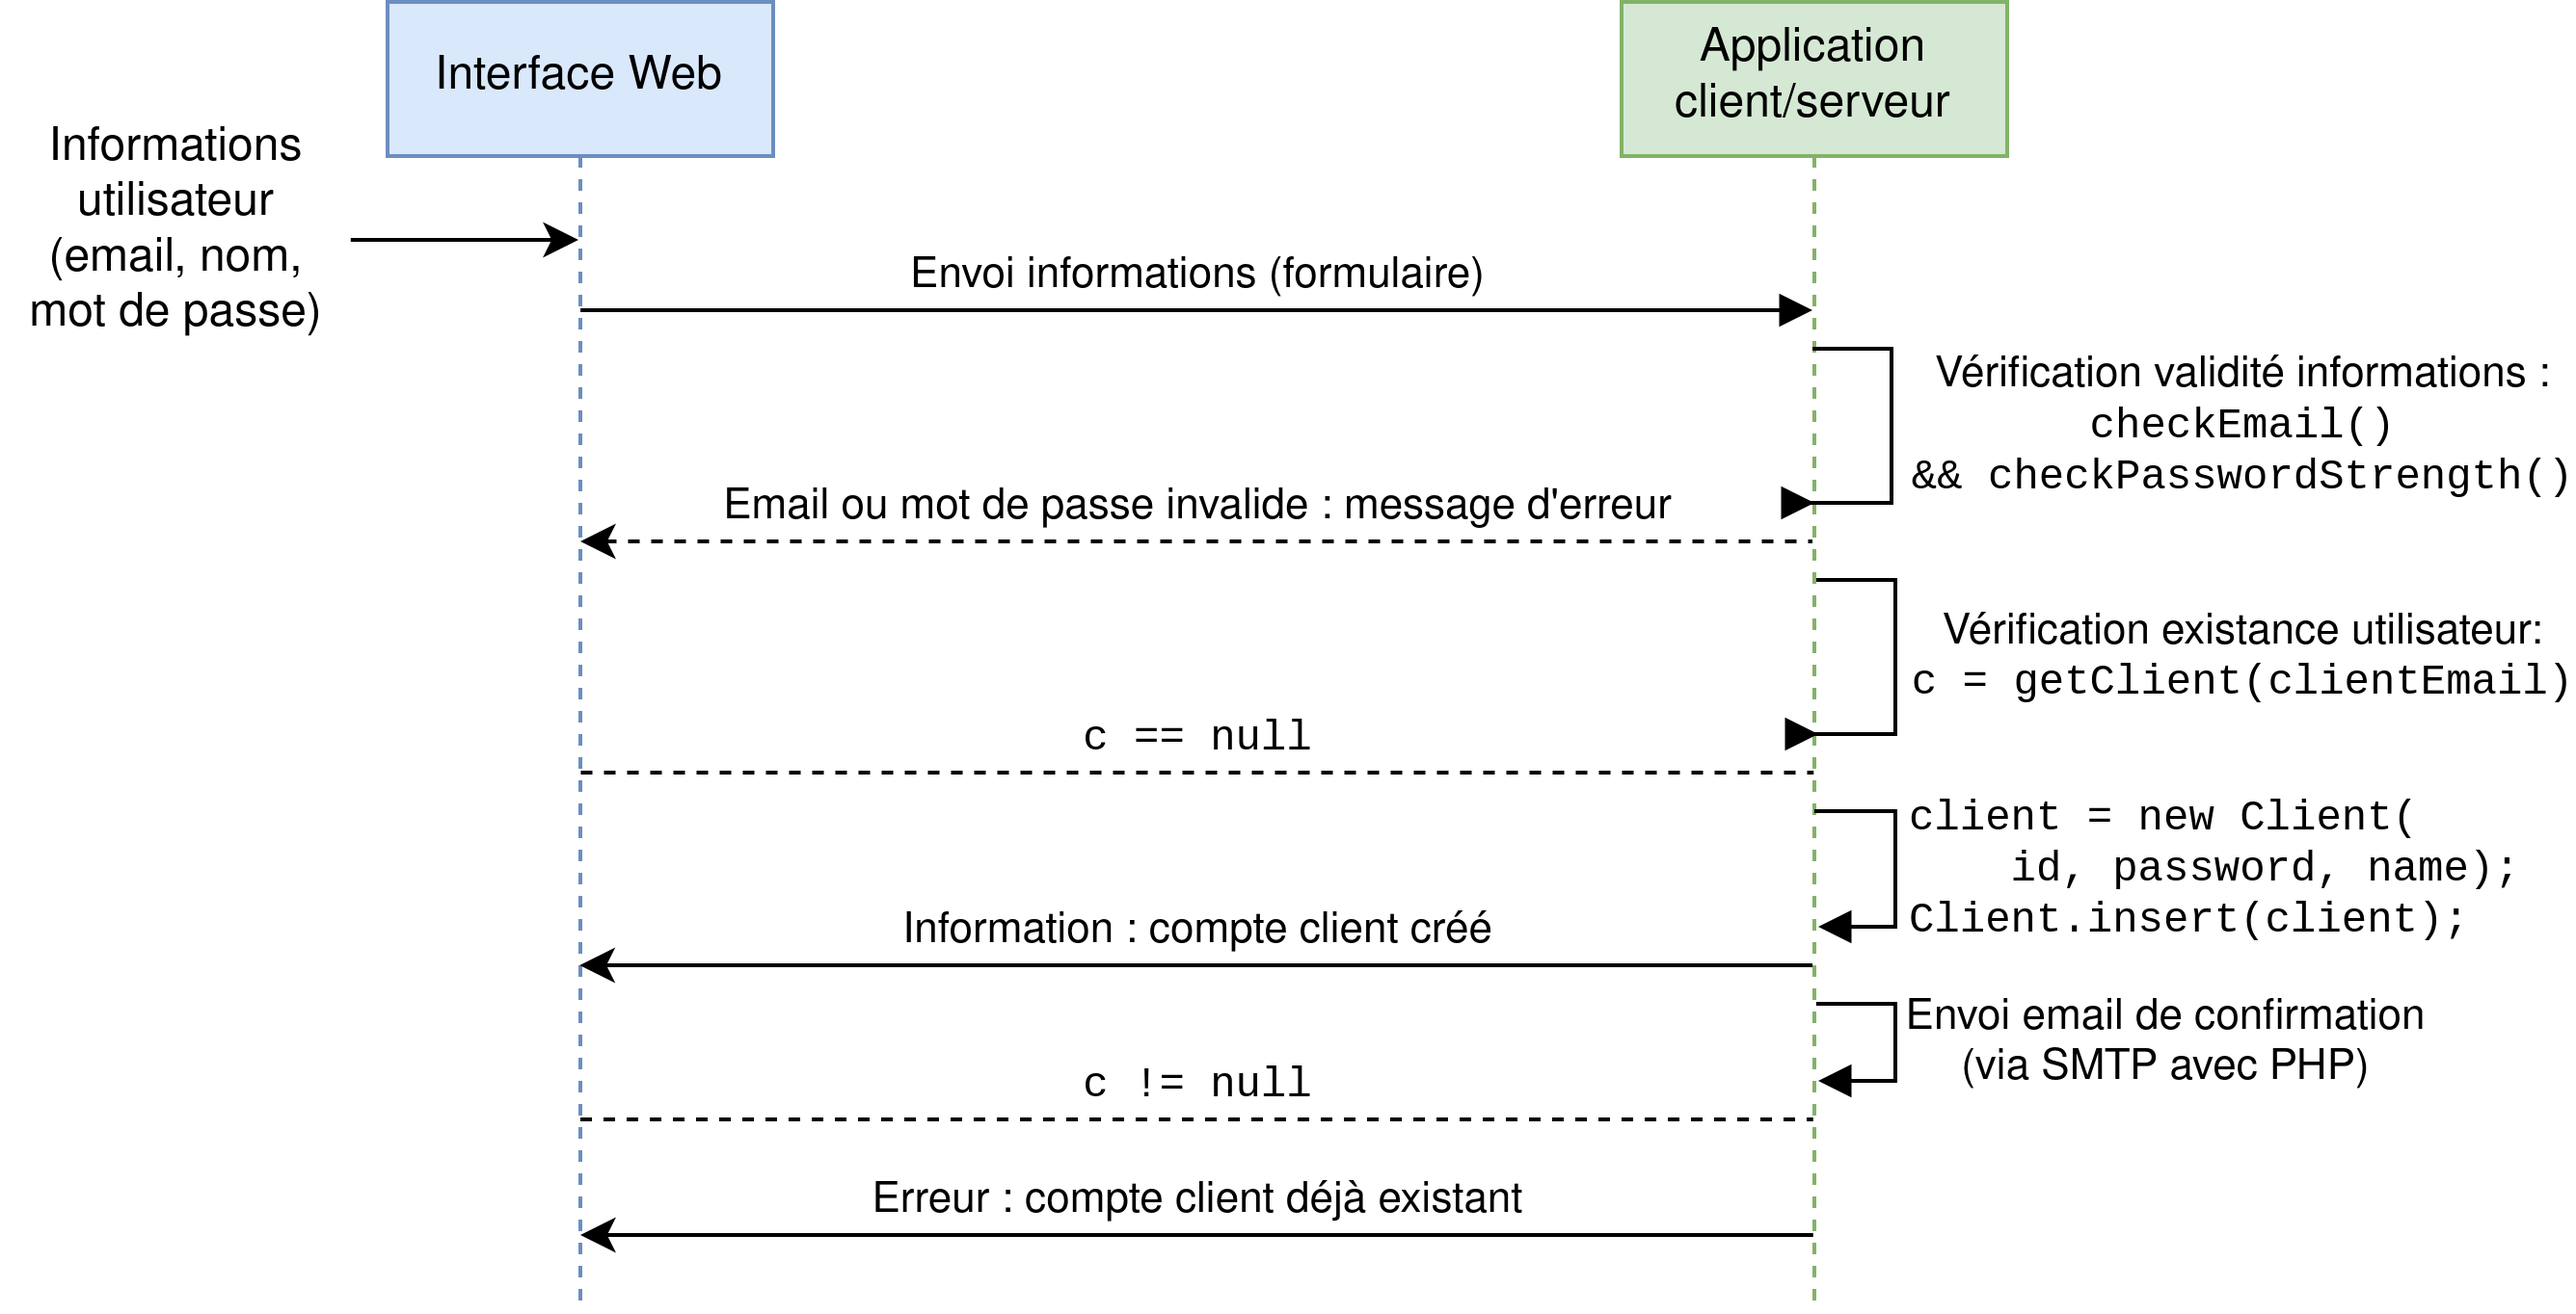
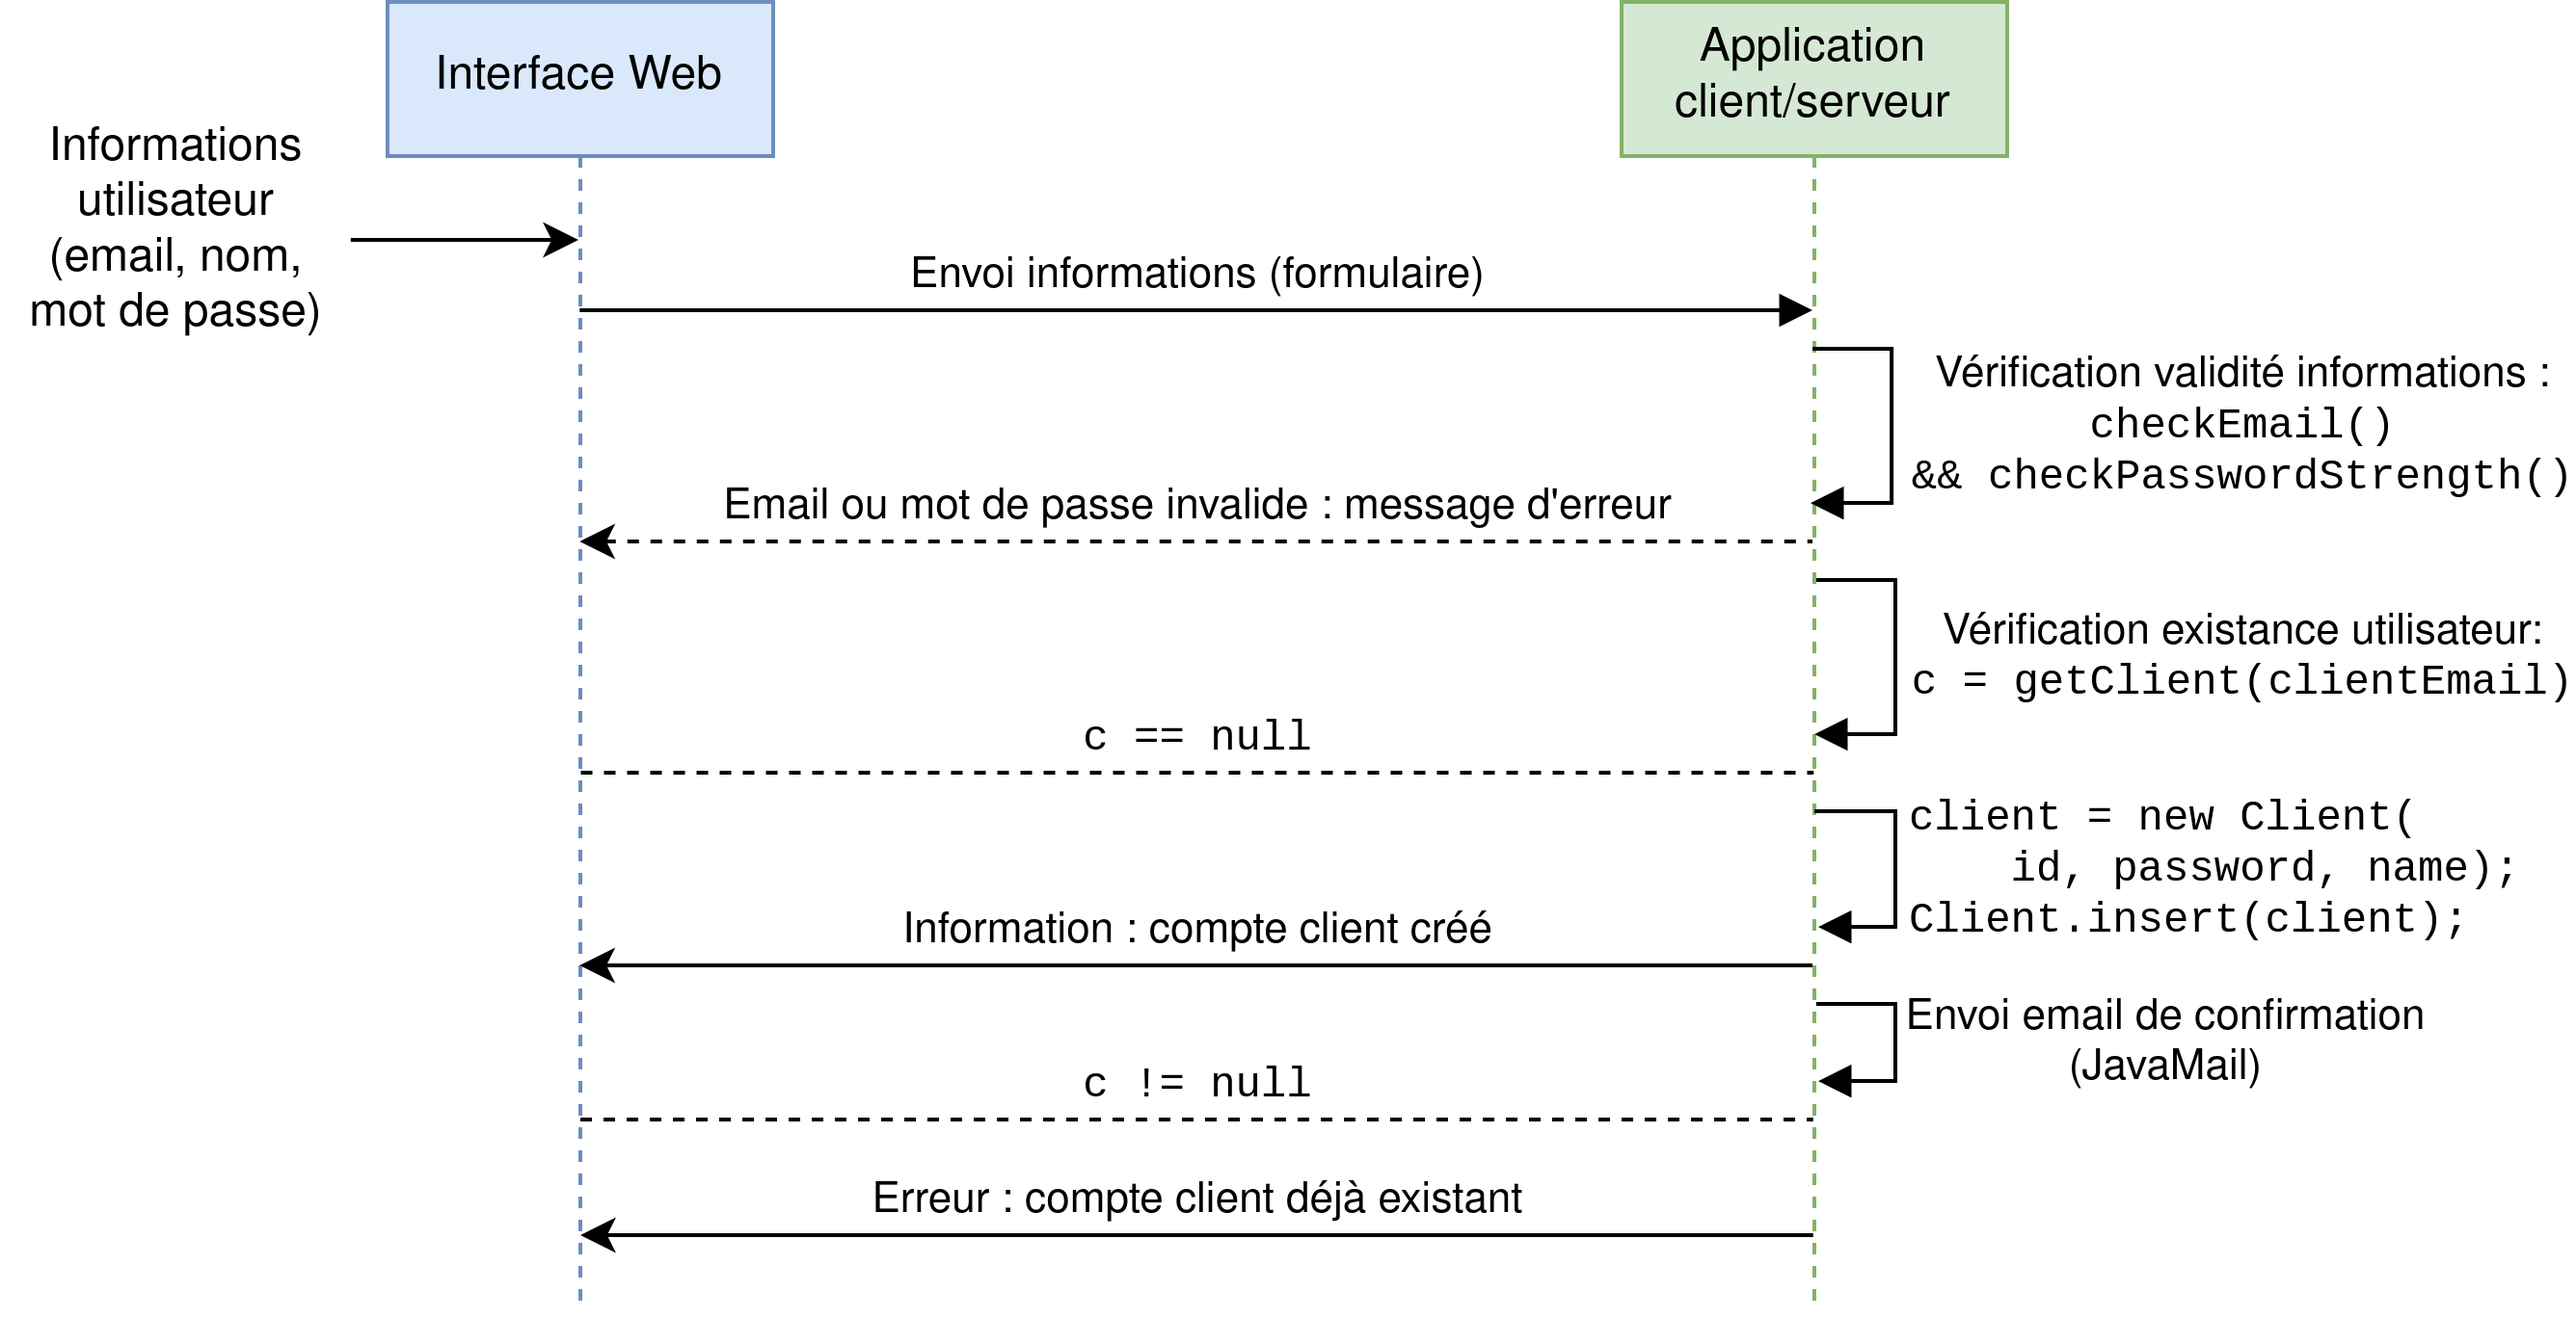
Fin de la DAT (j'espère)

diff --git a/DAT/main/main.tex b/DAT/main/main.tex
@@ -32,17 +32,17 @@ Documents de spécification :
 	\end{itemize}
 \end{itemize}
 
-%\chapter{Terminologie}
-
 \chapter{Configuration requise}
 
 Les éléments matériels nécessaire au développement de cet outil sont :
 \begin{itemize}
-    \item Un serveur sur lequel nous devrons installer tout le necéssaire à la mise en place d'un serveur Web (Apache, PHP, MySQL).
+    \item Un serveur sur lequel nous devrons installer le necéssaire à la mise en place d'un
+        serveur Web (Apache, Tomcat, PHP, MySQL).
     \item Un ordinateur sous Windows pour développer les interfaces et effectuer les tests.
 \end{itemize}
 
-De plus nous aurons besoin de différents logiciels pour effectuer des tests (protéger les logiciels) lorsque le dévellopement de l'outil sera suffisamment avancé.
+De plus nous aurons besoin de différents logiciels pour effectuer des tests (protéger les
+logiciels) lorsque le dévellopement de l'outil sera suffisamment avancé.
 
 \chapter{Architecture statique}
 Afin de réaliser ce projet nous avons choisi de mettre en place l'infrastructure suivante:
@@ -60,7 +60,7 @@ Afin de réaliser ce projet nous avons choisi de mettre en place l'infrastructur
 		afin de lui permettre de générer une licence. Pour cela il échangera avec
 		le serveur des informations sur le matériel physique de la machine, ce 
 		qui permettra à ce dernier de générer le fichier de licence.
-	\item[\textbf{Outil de Validation}:]
+	\item[\textbf{Outil de validation}:]
 		Outil permettant de vérifier la validité d'une licence, cet outil
 		pourra prendre les formes suivantes: 
 		\begin{itemize}
@@ -72,7 +72,8 @@ Afin de réaliser ce projet nous avons choisi de mettre en place l'infrastructur
 \end{description}
 
 L'architecture générale de ce projet peut être représenter via 
-le schéma n°\ref{fig:fig1}.\newline
+le schéma n°\ref{fig:fig1}.
+\newpage
 
 \begin{figure}[hp!]
 	\centering
@@ -80,11 +81,19 @@ le schéma n°\ref{fig:fig1}.\newline
 	\caption{Schéma d'architecture générale}
 	\label{fig:fig1}
 \end{figure}
+
 \newpage
 
 \section{Constituant «application»}
 
-\subsection{Description}
+\begin{figure}[p]
+    \vspace{-0.5cm}
+	\caption{API rest}
+	\input{rest-api.tex}
+	\label{fig:fig2}
+\end{figure}
+
+\subsection*{Description}
 
 \begin{description}
 	\item[\textbf{Rôle}:]
@@ -97,58 +106,44 @@ le schéma n°\ref{fig:fig1}.\newline
 				API Rest \cite{REST} permettant au client d'envoyer les informations
 				nécéssaires à la génération de la licence (voir \ref{fig:fig2}).			
 	\item[\textbf{Dépendances}:]
-				Dépend du module de base de données.
+				Dépend du module de base de données et du serveur Tomcat.
 	\item[\textbf{Langages}:]
-				HTML, CSS, JS, PHP, SQL, Bash, C 
+                HTML, CSS, Java, SQL, Bash, C
 	\item[\textbf{Procédé de développement}:]
-				Utilisation du pattern design MVC (Modèle - Vue - Contrôleur) avec le framework
-                CodeIgniter \cite{igniter} et respect des conventions Material Design
-                \cite{Material} (utilisation d'un framework CSS).
+				Utilisation du pattern design MVC (Modèle - Vue - Contrôleur) et respect des
+                conventions Material Design \cite{Material} (utilisation d'un framework CSS).
 	\item[\textbf{Taille et complexité}:]
 				Taille importante et complexité élévé.
 \end{description}
 
-\subsection{Justifications techniques.}
-Utilisation de la pile LAMP (Linux, Apache, MySQL, PHP) car beaucoup de 
-support et de documentation \cite{LAMP}. Il y a possibilité d'automatiser 
-le déploiement de la solution via un script d'installation. \newline
+\subsection*{Justifications techniques}
+Utilisation de Java pour la partie back-end. Le modèle peut être écrit en Java, et la partie
+contrôleur utilisera les servlets et les JSP. La programmation orienté-objet avec Java permet
+d'avoir un code plus compréhensible et plus simple. De plus, comparé à PHP, Java offre une plus
+large API. Avec cette technologie, il y a possibilité d'automatiser simplement le déploiement de
+la solution via un script d'installation.
+
+\subsection*{Script de génération}
 Le serveur utilisera un script permettant de générer une licence pour un 
 utilisateur en prenant en paramètre l'identifiant du logiciel pour lequel on doit 
 générer la licence, un hashé des informations hardware du client, et les
 attributs de la licence (nombre d'essais, période de validité) et renverra
-le fichier de licence. Le script utilisera les fonctions suivantes:
+le fichier de licence.
 
-\begin{minted}{c}
-// Récupère les droits d'une licence à partir d'un fichier de
-// licence, renseigné par son chemin.
-char *hashWithSHA256(const char *string);
-
-// Génère une signature de dataToSign à partir de la clé privé asymétrique 
-//  privateKey. 
-char *generateSignature(const char *dataToSign, const char *privateKey);
-  
-// Encode une chaîne de caractères en base64
-char *encodeBase64(const char *string);
-\end{minted}
-
-\begin{figure}[hp!]
-    \vspace{-0.5cm}
-	\caption{API rest}
-	\input{rest-api.tex}
-	\label{fig:fig2}
-\end{figure}
-%\newpage
+Les fonctions qui devront être implementés pour ce script sont décrites dans l'annexe
+(section \ref{api:gen}).
+\newpage
 
 \section{Constituant «Base de données»}
 
-\begin{figure}[hp!]
+\begin{figure}[!h]
 	\centering
 	\includegraphics[width=\textwidth - 2cm]{../png/SQL_table.png}
-	\caption{Diagramme UML des Tables de la BDD}
+	\caption{Diagramme UML des tables de la BDD}
 	\label{fig:fig2}
 \end{figure}
 
-\subsection{Description}
+\subsection*{Description}
 \begin{description}
 	\item[\textbf{Rôle}:]
 		Le but de ce module est de permettre de stocker les informations relatives aux
@@ -160,26 +155,29 @@ char *encodeBase64(const char *string);
 	\item[\textbf{Dépendances}:]
 		Pas de dépendances.		
 	\item[\textbf{Languages}:]
-		PHP 8, MySQL.
+		Java, SQL.
 	\item[\textbf{Procédé de développement}:]
-	  Porter une attention partculière à la sécurisation des données, via
-	  du chiffrement et à se proteger des attaques du type «injections SQL». 
+	    Porter une attention partculière à la sécurisation des données, via
+	    du chiffrement et à se proteger des attaques du type «injections SQL». 
 	\item[\textbf{Taille et complexité}:]
 		Taille faible et complexité faible. 
 \end{description}
 
-\subsubsection{Modèle PHP}
-Nous utiliserons MySQL avec PHP 8 pour interagir avec notre base de données (partie modèle) depuis la plateforme Web.
+\subsection*{Justifications techniques}
+MySQL est le SGBD le plus simple et le plus utilisé. De plus celui ci est open source et son
+installation est rapide.
 
-Le modèle PHP à implémenter est disponible en annexe (voir section \ref{section:php}).
+\subsection*{Modèle Java et DAO}
+Nous utiliserons MySQL avec Java (JDBC) pour interagir avec notre base de données
+depuis la plateforme Web.
 
-\subsection{Justifications techniques.}
-PHP est le langage de script le plus utilisé pour la programmation coté serveur et également le plus simple.
-De plus, depuis PHP 5, c'est un langage orienté-objet, ce qui permet de créer des interfaces simples, pour la
-compréhension, l'utilisation et la maintenabilité du code.
+Le modèle Java correspondra à une classe par types d'objets dans la base de données (c'est-à-dire
+une par table). Ensuite à chacune de ces classes correspondra son DAO (Data Access Object) qui
+effectuera les requêtes avec la base de données et qui renverra les objets correspondant au modèle.
 
 \section{Constituant «Logiciel d'activation»}
-\subsection{Description}
+
+\subsection*{Description}
 \begin{description}
 	\item[\textbf{Rôle}:]
 		Récupérer les informations matérielles sur la machine d'un utilisateur, puis 
@@ -188,7 +186,7 @@ compréhension, l'utilisation et la maintenabilité du code.
 	\item[\textbf{Services offerts}:] 
 		N'offre aucun service.
 	\item[\textbf{Dépendances}:]
-		Dépend du Module Serveur.
+		Dépend du module application.
 	\item[\textbf{Languages}:]
 		C\#.
 	\item[\textbf{Procédé de développement}:]
@@ -197,26 +195,23 @@ compréhension, l'utilisation et la maintenabilité du code.
 		Taille faible et complexité faible. 
 \end{description}
 
-\subsection{Justifications techniques}
-Ce logiciel sera principalement constitué d'une interface graphique et fera des requêtes HTTPS sur notre serveur.
-Il devra être éxécutable sur Windows et donc, le langage C\# est le plus adapté pour cette tâche car il permet de
-réaliser facilement des interfaces Windows.
+\subsection*{Justifications techniques}
+Ce logiciel sera principalement constitué d'une interface graphique et fera des requêtes HTTPS sur
+notre serveur. Il devra être éxécutable sur Windows et donc, le langage C\# est le plus adapté pour
+cette tâche car il permet de réaliser facilement des interfaces Windows.
+\newpage
 
-\section{Constituant «Système de véfication - Librairie»}
-\subsection{Description}
+\section{Constituant «Système de vérification - Librairie»}
+\subsection*{Description}
 \begin{description}
 	\item[\textbf{Rôle}:]
 		Fournir une API pour des programmes en C\# afin de 
 		permettre à un developpeur de vérifier une licence dans son code.
         Cependant le code de la bibliothèque ne sera pas en C\# mais en 
         C car celui-ci est plus facile à obfusquer et plus efficace. 
-%	\item[\textbf{Propriétés et attributs de caractérisation}:]
-
-	\newpage
-
 	\item[\textbf{Services offerts}:]
-		Ce module propose une API dont les fonctions sont les suivantes:
-        \inputminted{csharp}{lib.cs}
+        Ce module propose une API dont les fonctions sont définies en annexe
+        (section \ref{api:lib}).
 	\item[\textbf{Dépendances}:]
 		Dépend d'un fichier de licence.	
 	\item[\textbf{Languages}:]
@@ -227,7 +222,7 @@ réaliser facilement des interfaces Windows.
 		Taille importante et complexité relative.
 \end{description}
 
-\subsection{Justifications techniques.}
+\subsection*{Justifications techniques}
 Dans un premier temps, les fonctions de l'API pourront être implémentées en utilisant des bibliothèques systèmes comme par exemple, pour les informations hardware, la classe \verb:System.Management:, ou bien la classe \verb:System.Security.Cryptography: pour le hash avec SHA-256.\newline
 
 Dans un second temps, nous devrons implanter au maximum ces fonctions nous-mêmes et 
@@ -236,9 +231,10 @@ exécutable (greffe dans un PE) sans pour autant alourdir ou ralentir l'éxécut
 l'application. \newline
 
 C'est aussi dans un but pédagogique nous avons choisi d'implémenter nous même le système cryptographique de signature. Le schéma de signature retenu est ElGamal \cite{ElGamal}.
+\newpage
 
-\section{Constituant «Système de véfication - Greffe»}
-\subsection{Description}
+\section{Constituant «Système de vérification - Greffe»}
+\subsection*{Description}
 \begin{description}
 	\item[\textbf{Rôle}:]
 			Outil permettant d'ajouter les fonctions de vérification directement à un
@@ -257,7 +253,6 @@ C'est aussi dans un but pédagogique nous avons choisi d'implémenter nous même
 		Taille faible et complexité élevé.
 \end{description}
 
-% \subsection{Justifications techniques.}
 
 \chapter{Fonctionnement dynamique}
 Cette section décrit le fonctionnement dynamique des composants selon les cas d'utilisations vu
@@ -305,9 +300,25 @@ dans la spécification technique des besoins.
 
 \chapter{Annexe}
 \label{chap:Annexe}
-
 \input{coding-convention.tex}
 
-\section{Modèle PHP}
-\label{section:php}
-\inputminted{php}{api.php}
+\section{API}
+\subsection{Script de génération}
+\label{api:gen}
+\begin{minted}{c}
+// Récupère les droits d'une licence à partir d'un fichier de
+// licence, renseigné par son chemin.
+char *hashWithSHA256(const char *string);
+
+// Génère une signature de dataToSign à partir de la clé privé asymétrique 
+//  privateKey. 
+char *generateSignature(const char *dataToSign, const char *privateKey);
+  
+// Encode une chaîne de caractères en base64
+char *encodeBase64(const char *string);
+\end{minted}
+
+\subsection{Système de vérification - Librairie}
+\label{api:lib}
+\inputminted{csharp}{lib.cs}
+

diff --git a/DAT/main/DAT.tex b/DAT/main/DAT.tex
@@ -170,18 +170,19 @@
 		\hline
 			0.2 & 26/11/2021 & Mise à jour\\
 		\hline
-			1.0 & 01/12/2021  & Première version finale \\
+			1.0 & 01/12/2021 & Première version finale \\
 		\hline
             1.1 & 06/12/2021 & Révision après cours gestion projets, relecture et correction \\
         \hline
-            1.2 & 12/12/2021 & Version finale - ajout des schémas de séquence techniques \\
+            1.2 & 12/12/2021 & Ajout des schémas de séquence techniques \\
+        \hline 
+            1.3 & 21/12/2021 & Version finale - modification du choix de technologie pour le
+                back-end de l'application (PHP $\rightarrow$ Java) \\
         \hline
 	\end{tabular}
 \end{table}
 
-\renewcommand{\baselinestretch}{0.95}\normalsize
 \tableofcontents
-\renewcommand{\baselinestretch}{1.0}\normalsize
 \newpage
 
 \input{main.tex}

diff --git a/DAT/main/rest-api.tex b/DAT/main/rest-api.tex
@@ -113,6 +113,4 @@
 		\end{tcbitemize}
 
 	\end{tcbitemize}
-\end{tcolorbox}		
-
-
+\end{tcolorbox}
